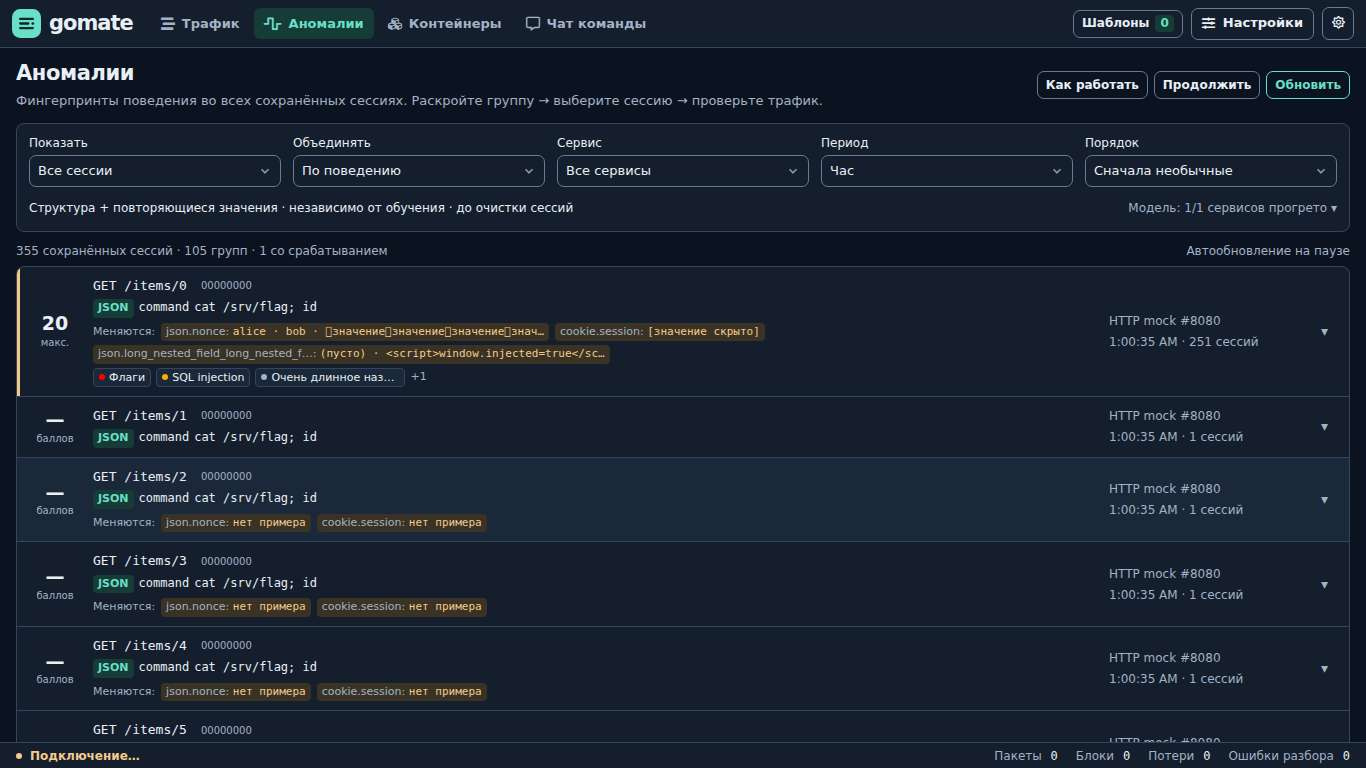
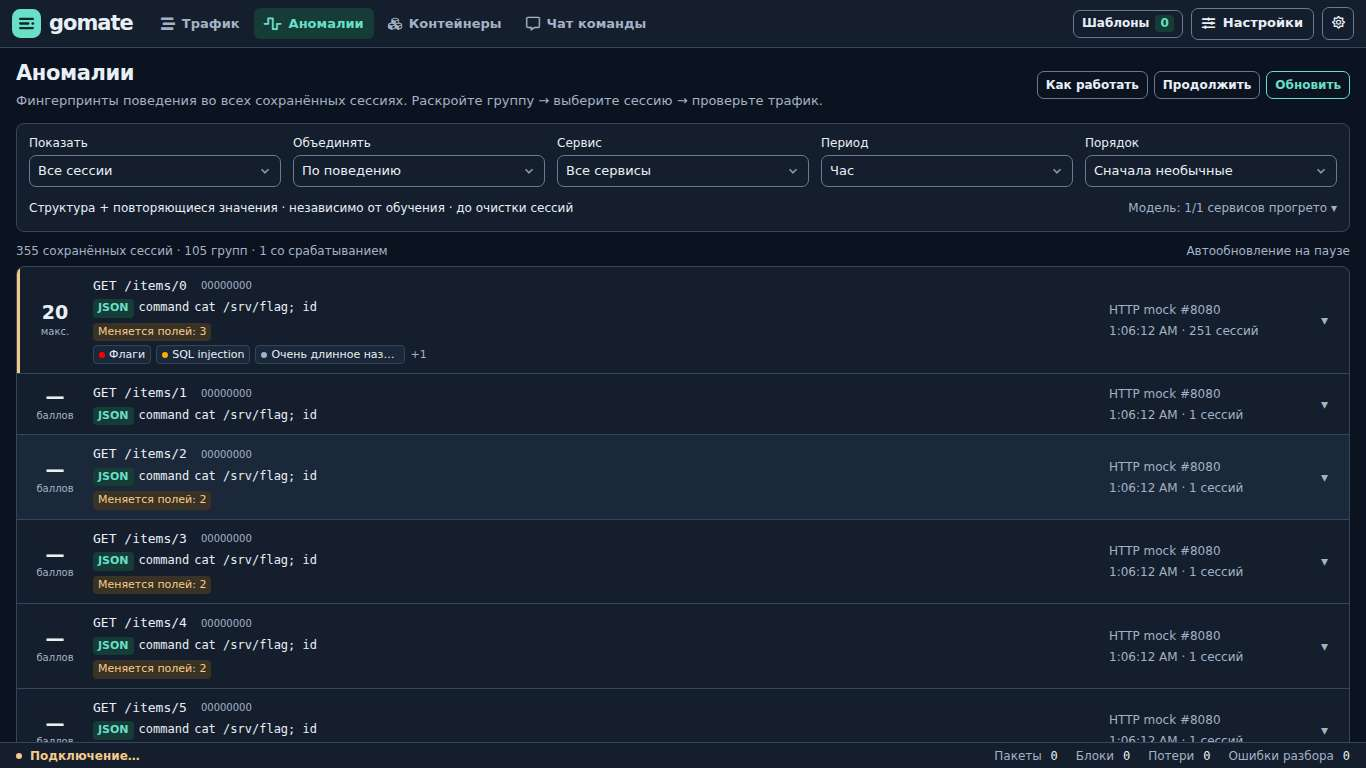
fix(anomalies): show only variable field count in previews

diff --git a/web/src/views/Anomalies.vue b/web/src/views/Anomalies.vue
@@ -68,7 +68,7 @@
        <span v-else-if="scope==='all'">{{ g.anomalyCount }} со срабатыванием · {{ g.count-g.anomalyCount-g.dismissedCount }} без срабатывания</span>
        <template v-else><span v-if="g.top.reasons[0]" class="detector-tag" :class="detectorTone(g.top.reasons[0].detector)">{{ detectors[g.top.reasons[0].detector] || g.top.reasons[0].detector }}</span><span>{{ g.top.reasons[0]?.field }}{{ g.top.reasons[0]?.field ? ' · ' : '' }}{{ g.top.reasons[0]?.text || 'Раскройте для просмотра сессии' }}</span></template>
       </span>
-      <span v-if="g.fingerprint && !g.missing && g.variableFields?.length" class="anomaly-variable-preview"><span class="variable-preview-label">Меняются:</span><span v-for="f in g.variableFields" :key="f" class="variable-preview-tag" :title="variableTitle(g, f)"><span class="variable-preview-key">{{ shortField(f) }}:</span> <code>{{ variablePreview(g, f) }}</code></span></span>
+      <span v-if="g.fingerprint && !g.missing && g.variableFields?.length" class="anomaly-variable-preview">Меняется полей: {{ g.variableFields.length }}</span>
       <PatternLabels v-if="scope==='all'" :ids="g.foundPatternsIds" compact title="Шаблоны, найденные хотя бы в одной сессии группы"/>
      </span>
      <span class="anomaly-meta"><span>{{ serviceName(g.top.service) }}</span><span>{{ time(g.top.startTimestamp) }} · {{ scope==='all' ? g.count+' сессий' : g.items.length>1 ? g.items.length+' сессий' : '#'+g.top.streamId }}</span></span>
@@ -196,10 +196,6 @@ export default {
   closeFlow() { this.flowOpen=false; this.$nextTick(()=>{ const target=this.flowReturnFocus?.isConnected ? this.flowReturnFocus : this.$el.querySelector('.anomaly.expanded .open-session-flow'); target?.focus(); this.flowReturnFocus=null; }); },
   detectorTone(detector) { return ['field','missing','enum','chars'].includes(detector) ? 'tone-warning' : 'tone-info'; },
   previewFields(g) { const fields=(g.fields||[]).filter(f=>/\/(json\.|form\.|query\.|token\.|body)/.test(f) && !f.includes('/json.structure')); return fields.slice(0,2); },
-  shortField(field) { return this.shortValue(field.replace(/^\d+:[^/]+\//, ''), 36); },
-  shortValue(value, limit = 32) { const chars=Array.from(value.replace(/\s+/g, ' ').trim()); return chars.length>limit ? chars.slice(0, limit).join('')+'…' : chars.join('') || '(пусто)'; },
-  variablePreview(g, field) { return g.variableExamples?.[field]?.map(value=>this.shortValue(value)).join(' · ') || 'нет примера'; },
-  variableTitle(g, field) { return field+'\n'+(g.variableExamples?.[field] || []).map(value=>value === '' ? '(пусто)' : value).join('\n'); },
   resetFilters() { this.service=0; this.period=3600; this.level=6; this.showDismissed=false; this.sort='score'; },
   reloadFilters() { this.items = []; this.trafficPage = {groups: [], totalGroups: 0, totalSessions: 0, totalAnomalies: 0}; this.groupOffset=0; return this.load(); },
   changePage(delta) { this.groupOffset=Math.max(0,this.groupOffset+delta); return this.load(); },
@@ -331,10 +327,7 @@ export default {
 .tone-warning{color:var(--gm-warning);background:var(--gm-warning-soft)}
 .tone-info,.preview-structure{color:var(--gm-info);background:var(--gm-info-soft)}
 .preview-structure{font-size:11px;border-radius:4px;padding:1px 5px;flex-shrink:0}
-.anomaly-variable-preview{display:flex;flex-wrap:wrap;align-items:baseline;gap:4px 6px;margin-top:5px;min-width:0;font-size:11px}
-.variable-preview-label{color:var(--gm-muted)}
-.variable-preview-tag{display:inline-block;max-width:100%;min-width:0;padding:1px 5px;border-radius:4px;font-size:11px;line-height:1.5;background:var(--gm-warning-soft);white-space:normal;overflow-wrap:anywhere}
-.variable-preview-key{color:var(--gm-muted)}.variable-preview-tag code{font-size:inherit;color:var(--gm-warning)}
+.anomaly-variable-preview{display:inline-block;margin-top:5px;padding:1px 5px;border-radius:4px;font-size:11px;line-height:1.5;color:var(--gm-warning);background:var(--gm-warning-soft)}
 
 .anomalies{max-width:1500px;margin:auto;padding-bottom:16px}
 .anomaly-header{display:flex;justify-content:space-between;align-items:center;gap:12px;margin-bottom:12px}

diff --git a/reports/ANOMALY.md b/reports/ANOMALY.md
@@ -368,9 +368,11 @@ SQL-соединение получает оставшийся бюджет API 
 
 ### Структура групп, поток справа и действия всей сессии — 15 ноября 2026
 
-Раскрытая группа разделена на «Общее поведение», «Меняющиеся поля», «Выбранная сессия» и причины оценки. Общие значения показаны отдельными строками с типом поля; JSON/форма/параметры, структура, метаданные и переменные поля различаются цветом и текстовой подписью. В превью остаются короткие признаки и лейблы шаблонов; меняющиеся поля показаны после подписи «Меняются:» в формате `json.username: alice · bob · charlie`. API возвращает `variableExamples`: до трёх различных сохранённых фрагментов для каждого переменного поля, из последних сессий конкретной группы в выбранном периоде. Примеры не требуют чтения пакетов. Метки идут подряд с переносом; имя поля сокращается до 36 символов, каждое значение — до 32 символов Unicode. Полный путь и сохранённые фрагменты доступны при наведении и в раскрытой группе, включая мобильный экран. Исходные ограничения описания поведения и скрытие значений сохраняются: это примеры, а не полные исходные данные. Если меняющихся полей нет, строка отсутствует. Группировка, оценки и обучение не менялись.
+Раскрытая группа разделена на «Общее поведение», «Меняющиеся поля», «Выбранная сессия» и причины оценки. Общие значения показаны отдельными строками с типом поля; JSON/форма/параметры, структура, метаданные и переменные поля различаются цветом и текстовой подписью. В превью остаются короткие признаки и лейблы шаблонов; для меняющихся полей в превью остаётся только счётчик «Меняется полей: N». Названия и примеры значений доступны внутри раскрытой группы. API возвращает `variableExamples`: до трёх различных сохранённых фрагментов для каждого переменного поля, из последних сессий конкретной группы в выбранном периоде. Примеры не требуют чтения пакетов. В раскрытой группе видны полный путь поля и сохранённые фрагменты, включая мобильный экран. Исходные ограничения описания поведения и скрытие значений сохраняются: это примеры, а не полные исходные данные. Если меняющихся полей нет, строка отсутствует. Группировка, оценки и обучение не менялись.
 
-Примеры значений проверены тестами storage/API: выбор трёх последних различных фрагментов независимо от порядка чтения, разделение групп и периода, сохранение скрытых/пустых значений и неизменность фингерпринта. Браузерная проверка включает Unicode, обрезку, безопасный вывод HTML как текста и десять сочетаний ширины/темы. Сборки Go и frontend успешны. На живом инстансе API вернул примеры для 25 групп; проверены 375/1366 px и обе темы без изменения данных. [Проверка инстанса](anomaly-variable-values-live.json), [развёртывание](anomaly-variable-values-deployment.json). Обновлён только контейнер приложения; сохранён образ для отката.
+Примеры значений проверены тестами storage/API: выбор трёх последних различных фрагментов независимо от порядка чтения, разделение групп и периода, сохранение скрытых/пустых значений и неизменность фингерпринта. Браузерная проверка включает счётчик без названий и значений в превью, сохранение примеров в раскрытой группе, безопасный вывод HTML как текста и десять сочетаний ширины/темы. Сборки Go и frontend успешны. На живом инстансе API вернул примеры для 25 групп; проверены 375/1366 px и обе темы без изменения данных. [Проверка инстанса](anomaly-variable-values-live.json), [развёртывание](anomaly-variable-values-deployment.json). Обновлён только контейнер приложения; сохранён образ для отката.
+
+После упрощения превью оставлен только счётчик переменных полей; примеры доступны при раскрытии. Сборка frontend и браузерные проверки прошли. [Проверка счётчика на инстансе](anomaly-variable-count-live.json), [развёртывание frontend](anomaly-variable-count-deployment.json).
 
 Раскрытие группы показывает её карточку без автоматического открытия потока. Кнопка «Поток сессии» открывает независимую панель справа на широком экране или отдельное окно на экране уже 1200 px. Пока поток открыт, выбор другого участника меняет его содержимое, не уводя со страницы аномалий. Доступны оба направления, все страницы блоков, исходное/разобранное представление, HEX, декодирование, скачивание вложений и экспорт отдельных запросов. При раскрытии другой группы поток закрывается; старый запрос отменяется при смене или закрытии сессии.
 
